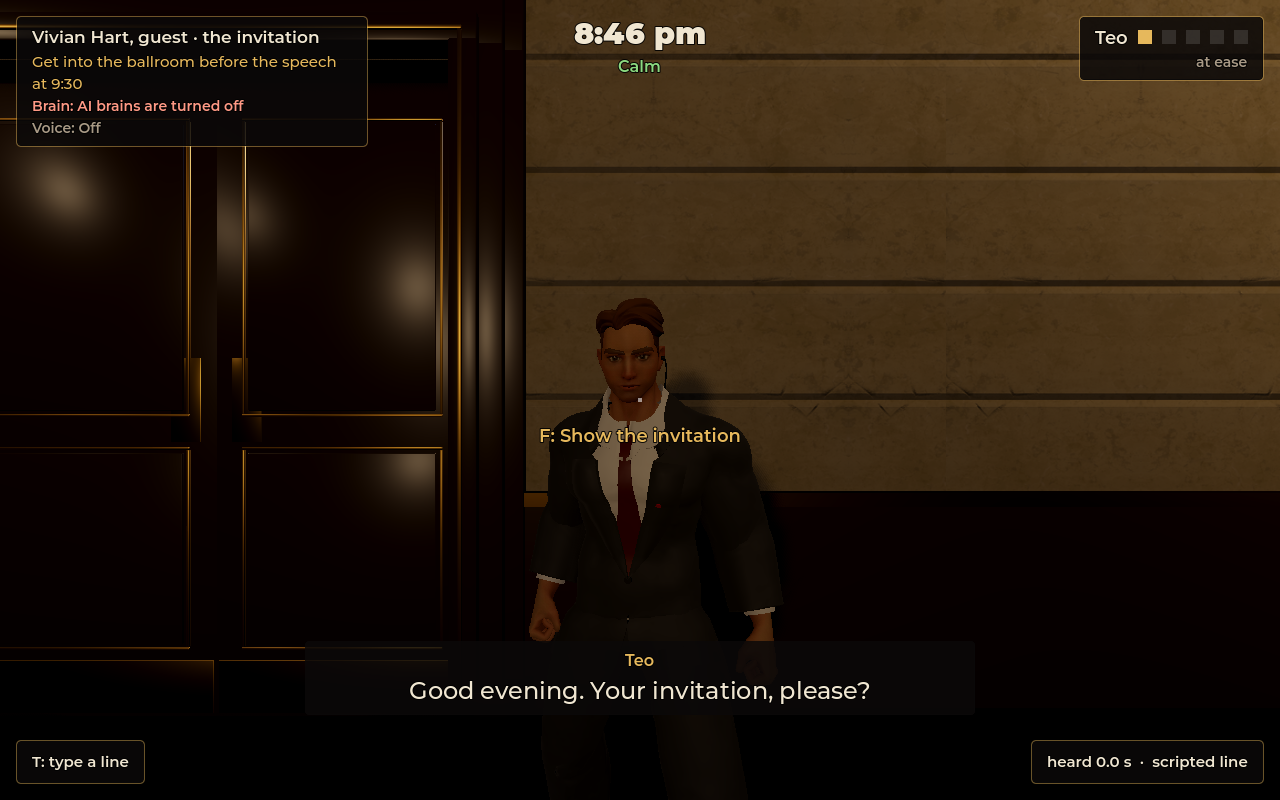
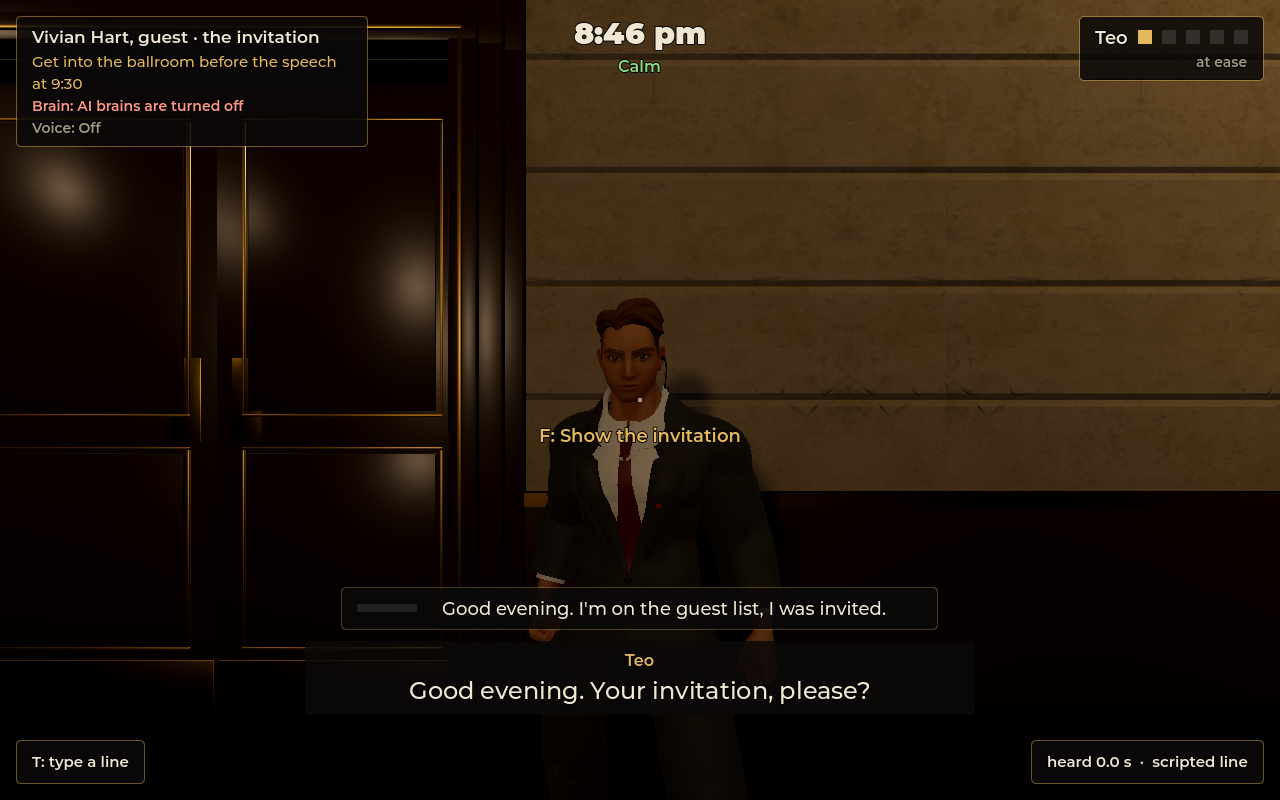
Pictures of every job's start, Mae's board and the Circuit, and a night's rules read as sentences
Claude-Session: https://claude.ai/code/session_019jpddbwYW4qKEajMVaZRaf

Changed region(s): [[0.2812, 0.7188, 0.6875, 0.8125]]

diff --git a/docs/screenshots/jobs/README.md b/docs/screenshots/jobs/README.md
@@ -2,6 +2,16 @@
 
 Made by `tools/screenshot.tscn -- --all=docs/screenshots group=jobs` (see `tools/screenshot.gd`): each job's first moment, alone, in its first cover, from where the crew starts.
 
+- [`meridian_gala`](meridian_gala.png): The gala, The Hotel Meridian. Get into the ballroom before the speech at 9:30
+- [`meridian_list`](meridian_list.png): The guest list, The Hotel Meridian. Get the auction's guest list, or a copy, out of the Meridian
+- [`meridian_case`](meridian_case.png): The display case, The Hotel Meridian. Swap the Rose's case for Mae's copy, then get the real one out or hide it
+- [`marlin_aboard`](marlin_aboard.png): Aboard, The Marlin. Get aboard the Marlin as crew before she sails at midnight
+- [`marlin_safe`](marlin_safe.png): The captain's safe, The Marlin. Get the auction file out of the captain's safe before 9:15
+- [`marlin_auction`](marlin_auction.png): The auction, The Marlin. Win the Rose at the auction at eight
+- [`tideline_count`](tideline_count.png): The count room, The Tideline. Get a look inside the count room during the count, or the count sheet out, by 11:45
+- [`tideline_favor`](tideline_favor.png): The pit boss's favor, The Tideline. Get Lyle Pruitt caught cheating at wheel two, and make sure Augie knows it was you, by 11:10
+- [`tideline_vault`](tideline_vault.png): The vault, The Tideline. Get the Rose out of the vault and out of the Tideline by 11:50
 - [`vantage_lift`](vantage_lift.png): The lobby and the lift, Vantage Tower. Get up the lift to level 12 before 6:40
 - [`vantage_board`](vantage_board.png): The board meeting, Vantage Tower. Hear the board's decision and get it down to the lobby
 - [`vantage_research`](vantage_research.png): The research floor, Vantage Tower. Take the Rose from the gem room and get her out of the tower
+- [`mae_party`](mae_party.png): The house party, Mae's house. Take the Rose back before Gray leaves with it

diff --git a/docs/screenshots/gala/README.md b/docs/screenshots/gala/README.md
@@ -2,6 +2,8 @@
 
 Made by `tools/screenshot.tscn -- --all=docs/screenshots group=gala` (see `tools/screenshot.gd`): the gala alone, as the guest, with the staff on scripted lines.
 
+- [`board`](board.png): Mae's back room: the season's jobs venue by venue, how each came off, the take and Halberd's file
+- [`circuit`](circuit.png): The Circuit: this week's contract, rolling a night, or playing one a friend shared
 - [`briefing`](briefing.png): The title's gala page: Auntie Mae's briefing, the four covers and how to play
 - [`crew`](crew.png): Hosting a crew on the network: the code, who's in and in what cover
 - [`start`](start.png): 8:45 pm, just inside the front doors: the clock, the heat, your cover
